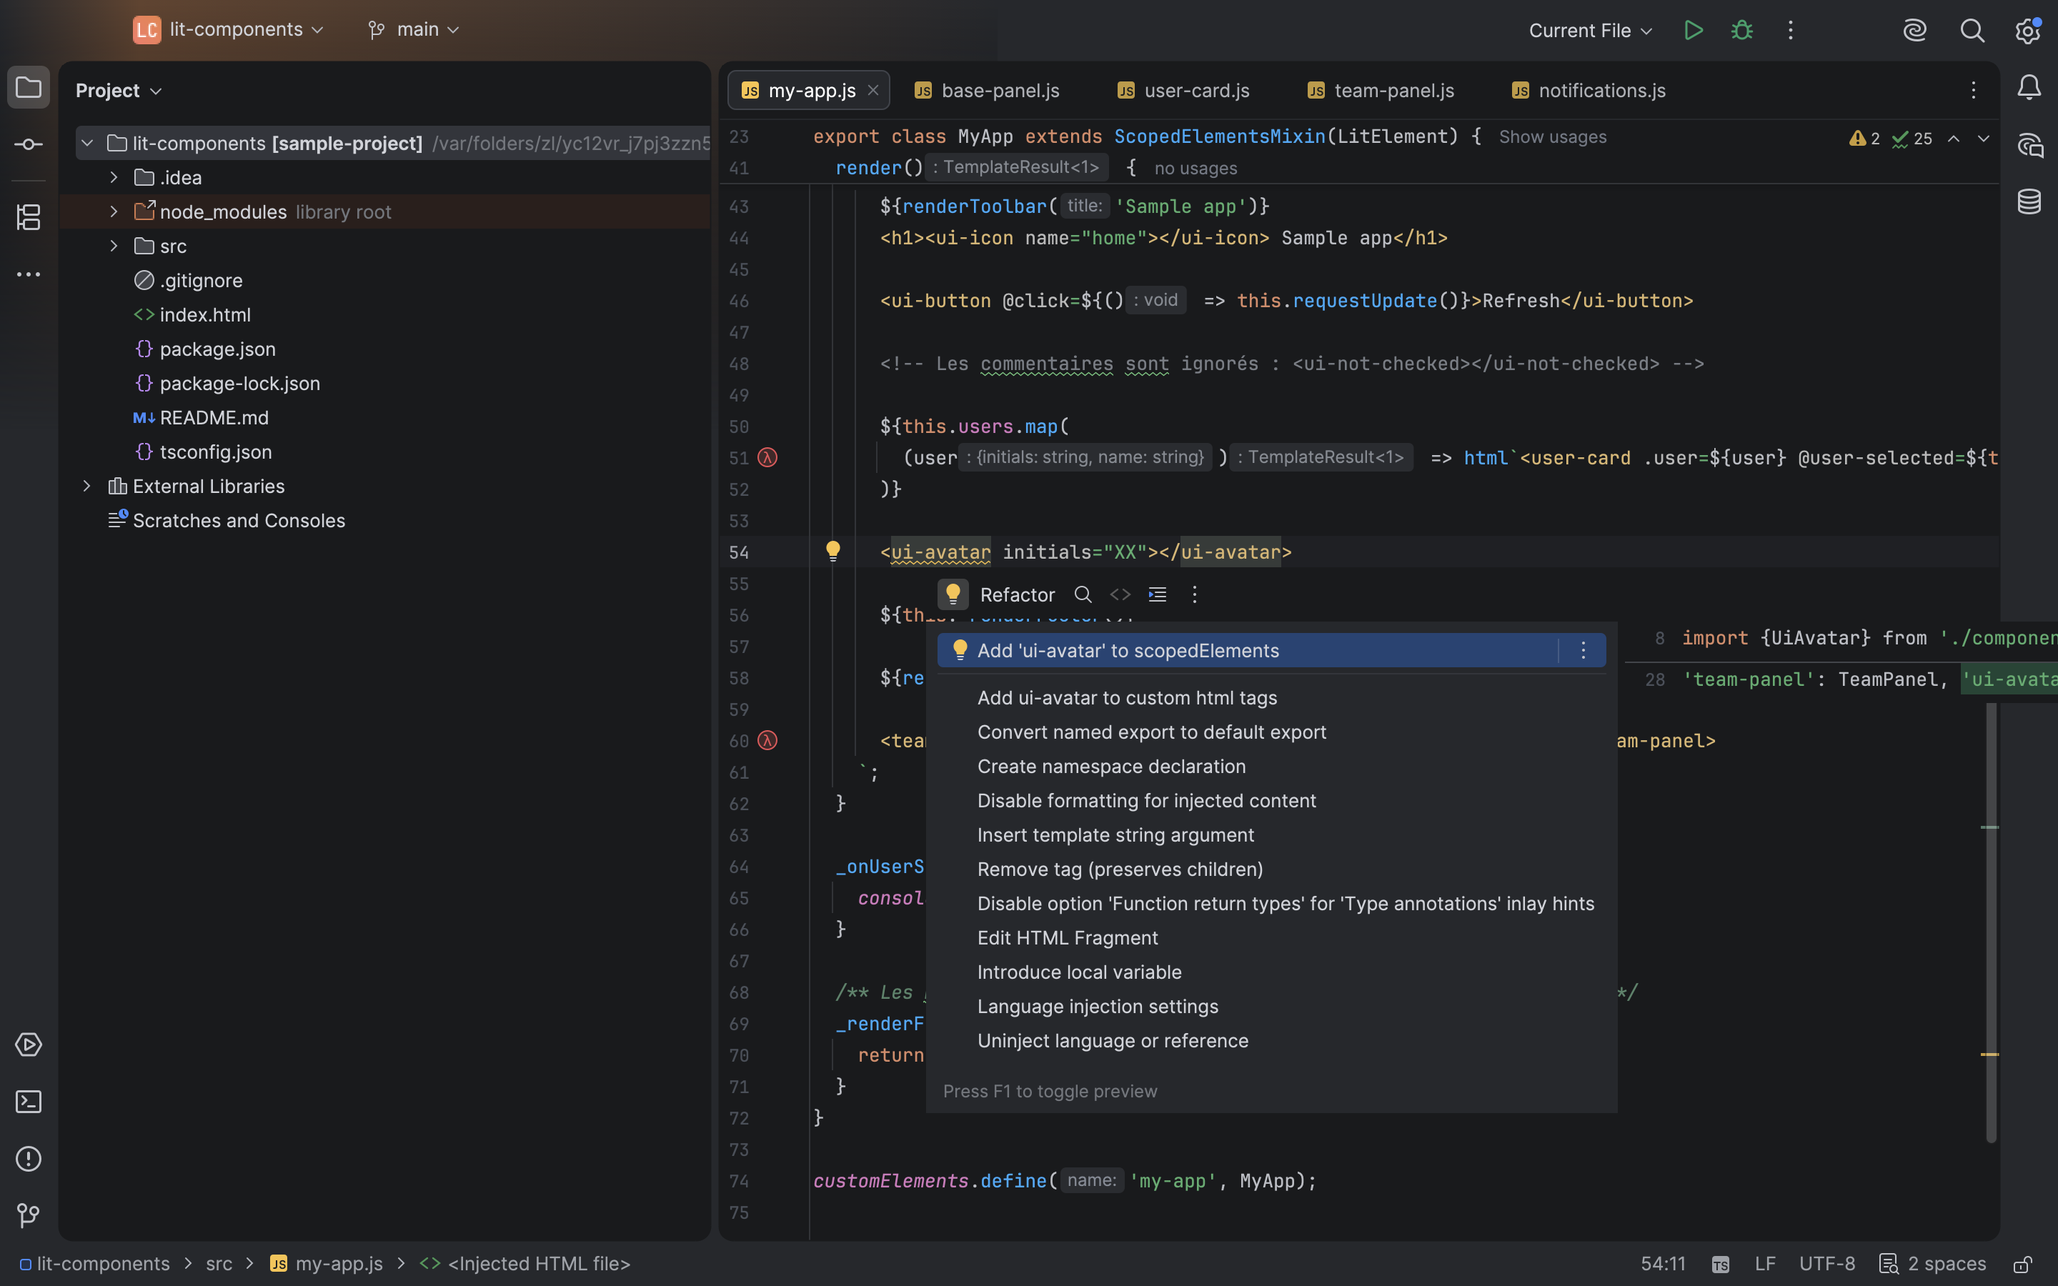
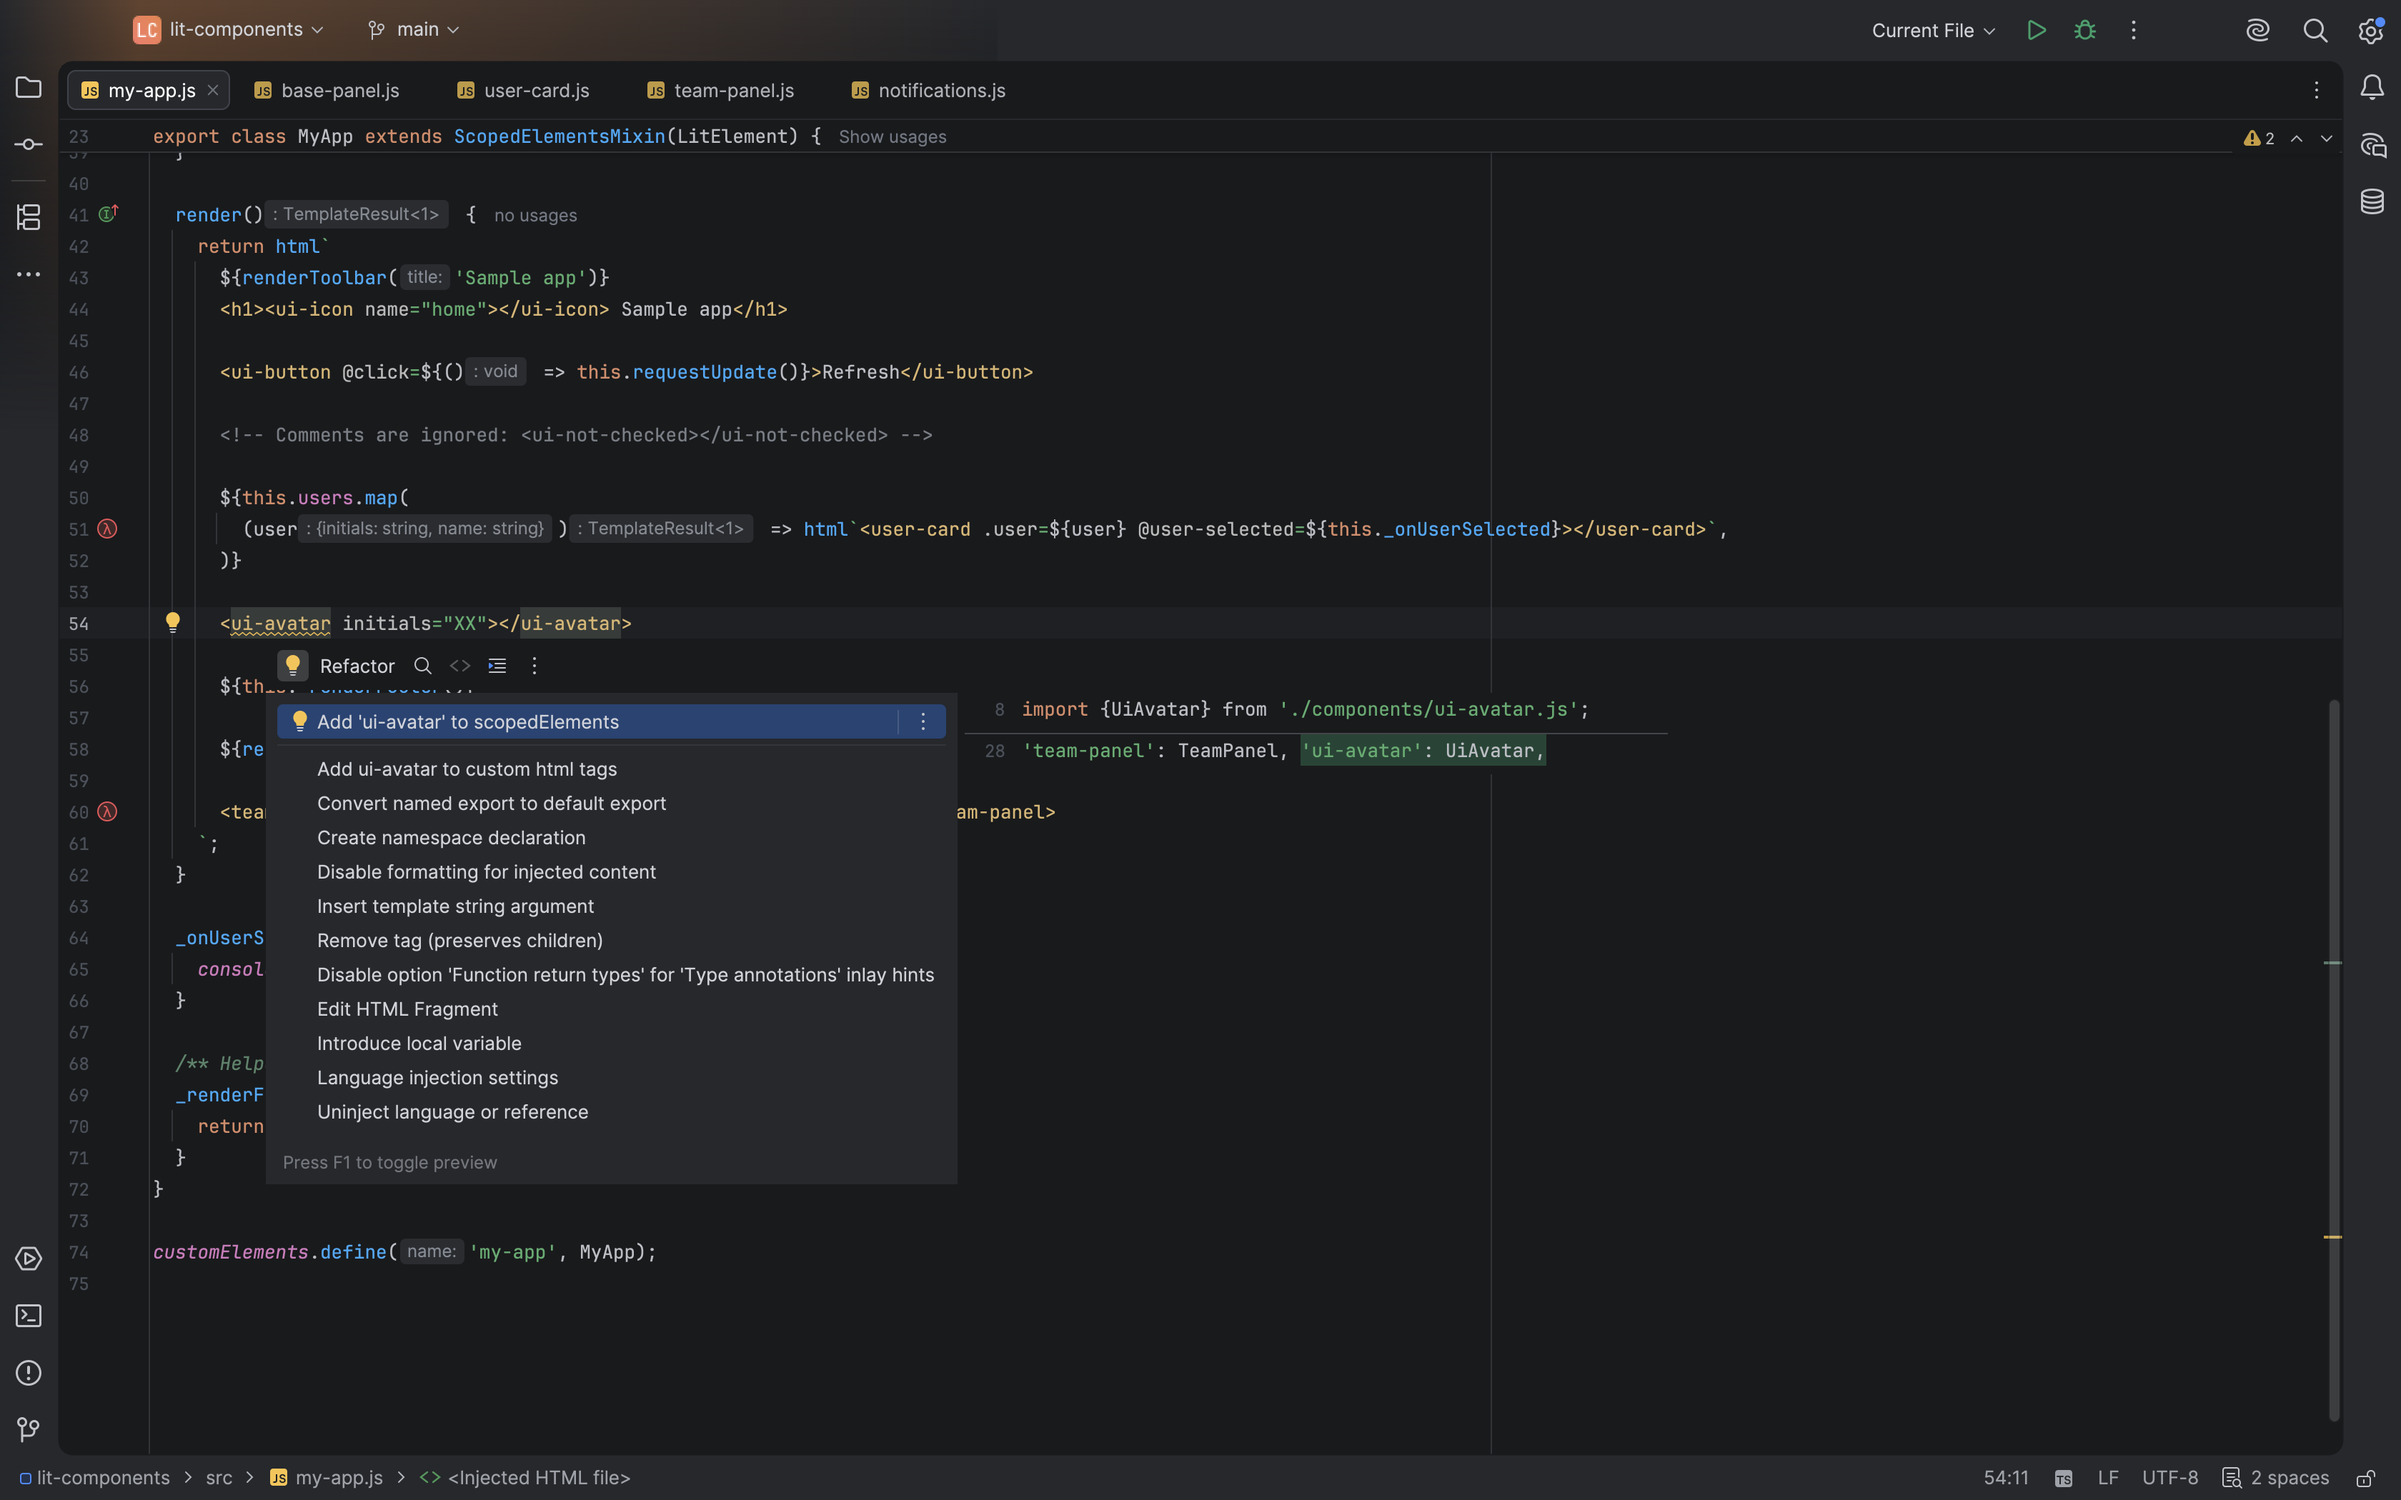
Retake the screenshots in English with complete popups
- Sample project comments in English; fix a comment and class
  declaration joined on one line in notifications.js.
- 1680x1050 window with the Project panel hidden, so popups and their
  side panels (fix preview, documentation) are never cut off; the tour
  logs any popup window extending outside the frame.
- Tag completion is shown after `<ui`, so the whole list fits.
- Shots that edit a file come last instead of restoring the file, which
  raced with highlighting in the JavaScript plugin; IDE error balloons
  are cleared before each capture.

diff --git a/src/screenshots/kotlin/io/github/litscoped/screenshots/ScreenshotTour.kt b/src/screenshots/kotlin/io/github/litscoped/screenshots/ScreenshotTour.kt
@@ -1,6 +1,7 @@
 package io.github.litscoped.screenshots
 
 import com.intellij.codeInsight.lookup.LookupManager
+import com.intellij.diagnostic.MessagePool
 import com.intellij.openapi.actionSystem.ActionManager
 import com.intellij.openapi.actionSystem.CommonDataKeys
 import com.intellij.openapi.actionSystem.PlatformCoreDataKeys
@@ -21,6 +22,7 @@ import com.intellij.openapi.project.Project
 import com.intellij.openapi.startup.ProjectActivity
 import com.intellij.openapi.ui.popup.JBPopupFactory
 import com.intellij.openapi.vfs.LocalFileSystem
+import com.intellij.openapi.wm.ToolWindowManager
 import com.intellij.openapi.wm.WindowManager
 import com.intellij.psi.PsiDocumentManager
 import kotlinx.coroutines.Dispatchers
@@ -47,7 +49,9 @@ class ScreenshotTour : ProjectActivity {
         delay(3000)
         withContext(Dispatchers.EDT) {
             val frame = WindowManager.getInstance().getFrame(project)!!
-            frame.setBounds(40, 40, WIDTH, HEIGHT)
+            frame.setBounds(20, 20, WIDTH, HEIGHT)
+            // More room for the editor, so popups and their side panels fit in the window.
+            ToolWindowManager.getInstance(project).getToolWindow("Project")?.hide()
         }
         val root = project.basePath!!
         for (shot in shots()) {
@@ -59,13 +63,11 @@ class ScreenshotTour : ProjectActivity {
     }
 
     private suspend fun take(project: Project, root: String, dir: File, shot: Shot) {
-        var original: String? = null
         val editor = withContext(Dispatchers.EDT) {
             val file = LocalFileSystem.getInstance().refreshAndFindFileByPath("$root/${shot.path}")!!
             val editor = FileEditorManager.getInstance(project).openTextEditor(OpenFileDescriptor(project, file), true)!!
             shot.edit?.let { (marker, replacement) ->
                 val document = editor.document
-                original = document.text
                 val at = document.text.indexOf(marker)
                 WriteCommandAction.runWriteCommandAction(project) {
                     document.replaceString(at, at + marker.length, replacement)
@@ -83,6 +85,7 @@ class ScreenshotTour : ProjectActivity {
         delay(3000)
         withContext(Dispatchers.EDT) {
             NotificationsManager.getNotificationsManager().getNotificationsOfType(Notification::class.java, project).forEach { it.expire() }
+            MessagePool.getInstance().clearErrors()
         }
         delay(500)
         withContext(Dispatchers.EDT) {
@@ -90,13 +93,6 @@ class ScreenshotTour : ProjectActivity {
             LookupManager.hideActiveLookup(project)
             val frame = WindowManager.getInstance().getFrame(project)!!
             JBPopupFactory.getInstance().getChildPopups(frame.rootPane).forEach { it.cancel() }
-            // Undo the shot's edit so the next shots show the file as it is.
-            original?.let { text ->
-                WriteCommandAction.runWriteCommandAction(project) {
-                    editor.document.setText(text)
-                    PsiDocumentManager.getInstance(project).commitDocument(editor.document)
-                }
-            }
         }
         delay(1000)
     }
@@ -122,9 +118,13 @@ class ScreenshotTour : ProjectActivity {
         graphics.scale(SCALE.toDouble(), SCALE.toDouble())
         frame.paint(graphics)
         val origin = frame.locationOnScreen
+        val frameBounds = java.awt.Rectangle(origin, frame.size)
         for (window in Window.getWindows()) {
             if (window == frame || !window.isShowing || window.width == 0) continue
             val at = window.locationOnScreen
+            if (!frameBounds.contains(java.awt.Rectangle(at, window.size))) {
+                File(file.parentFile, "clipped.txt").appendText("${file.name}: ${window.javaClass.simpleName} ${java.awt.Rectangle(at, window.size)} outside $frameBounds\n")
+            }
             val g = graphics.create(at.x - origin.x, at.y - origin.y, window.width, window.height)
             window.paint(g)
             g.dispose()
@@ -143,32 +143,33 @@ class ScreenshotTour : ProjectActivity {
         val wait: Long = 4000,
     )
 
+    // Shots that edit a file come after the ones showing it as is (edits stay in the temporary copy).
     private fun shots() = listOf(
         Shot("01-missing-element-quick-fix", "src/my-app.js", "<ui-avatar initials", caretShift = 4, action = "ShowIntentionActions", wait = 10000),
         Shot("02-scoped-element-to-templates", "src/features/base-panel.js", "'ui-button': UiButton", action = "GotoDeclaration"),
         Shot("03-event-listeners", "src/features/user-card.js", "'user-selected', {", action = "GotoDeclaration"),
+        Shot("07-quick-documentation", "src/features/notifications.js", "<ui-badge>2", caretShift = 2, action = "QuickJavaDoc"),
+        Shot("08-event-never-fired", "src/features/notifications.js", "@toast-vanished=", caretShift = 3, action = "ShowErrorDescription"),
         Shot(
             "04-property-completion", "src/features/team-panel.js", "<ui-avatar initials=\"AL\" ",
             caretShift = "<ui-avatar initials=\"AL\" ".length, action = "CodeCompletion",
             edit = "<ui-avatar initials=\"AL\">" to "<ui-avatar initials=\"AL\" >",
         ),
         Shot(
+            "06-tag-completion", "src/features/team-panel.js", "<ui-badge>3</ui-badge>\n      <ui",
+            caretShift = "<ui-badge>3</ui-badge>\n      <ui".length, action = "CodeCompletion",
+            edit = "<ui-badge>3</ui-badge>" to "<ui-badge>3</ui-badge>\n      <ui",
+        ),
+        Shot(
             "05-event-completion", "src/features/notifications.js", "<app-toast @",
             caretShift = "<app-toast @".length, action = "CodeCompletion",
             edit = "<ui-badge>2</ui-badge>" to "<ui-badge>2</ui-badge>\n      <app-toast @></app-toast>",
         ),
-        Shot(
-            "06-tag-completion", "src/features/team-panel.js", "<ui-badge>3</ui-badge>\n      <",
-            caretShift = "<ui-badge>3</ui-badge>\n      <".length, action = "CodeCompletion",
-            edit = "<ui-badge>3</ui-badge>" to "<ui-badge>3</ui-badge>\n      <",
-        ),
-        Shot("07-quick-documentation", "src/features/notifications.js", "<ui-badge>2", caretShift = 2, action = "QuickJavaDoc"),
-        Shot("08-event-never-fired", "src/features/notifications.js", "@toast-vanished=", caretShift = 3, action = "ShowErrorDescription"),
     )
 
     private companion object {
-        const val WIDTH = 1440
-        const val HEIGHT = 900
+        const val WIDTH = 1680
+        const val HEIGHT = 1050
         const val SCALE = 2
     }
 }

diff --git a/sample-project/src/features/notifications.js b/sample-project/src/features/notifications.js
@@ -26,7 +26,8 @@ import '../components/app-toast.js';
  *
  *  RENAME
  *  - Shift+F6 on the 'ui-badge' key → also renames <ui-badge>…</ui-badge> in the template.
- */export class NotificationCenter extends ScopedElementsMixin(LitElement) {
+ */
+export class NotificationCenter extends ScopedElementsMixin(LitElement) {
   static scopedElements = {
     'ui-badge': UiBadge,
     'ui-icon': UiIcon,
